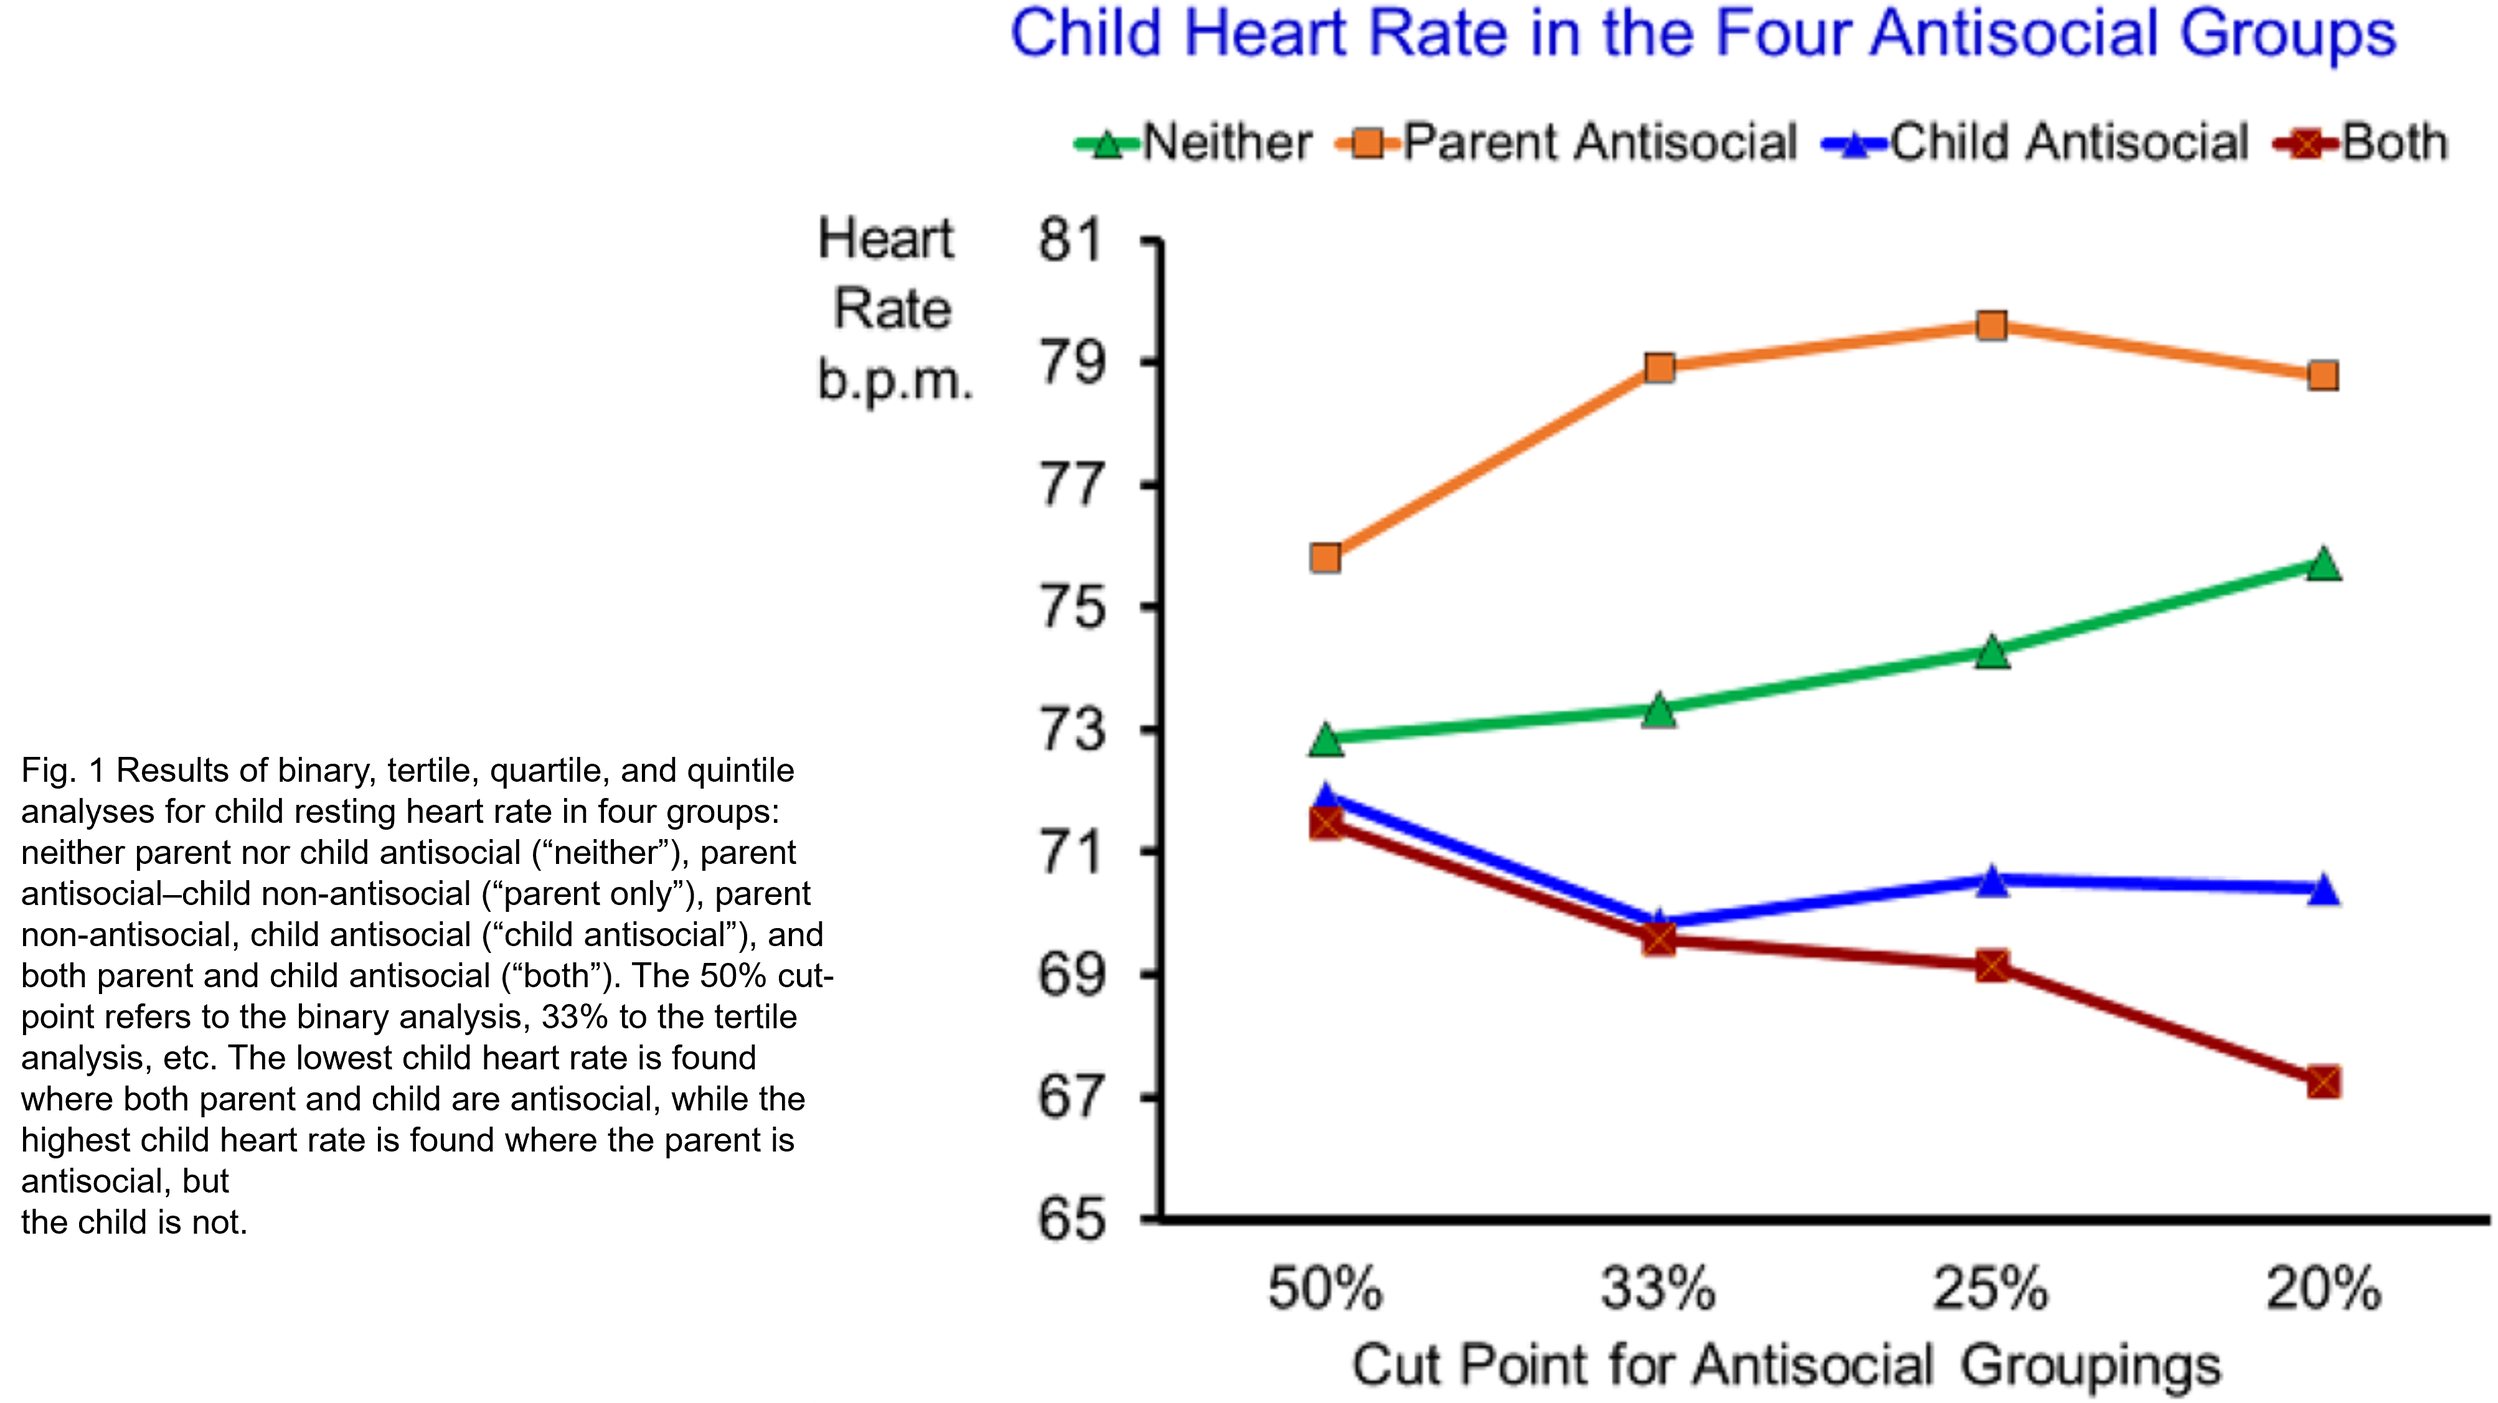
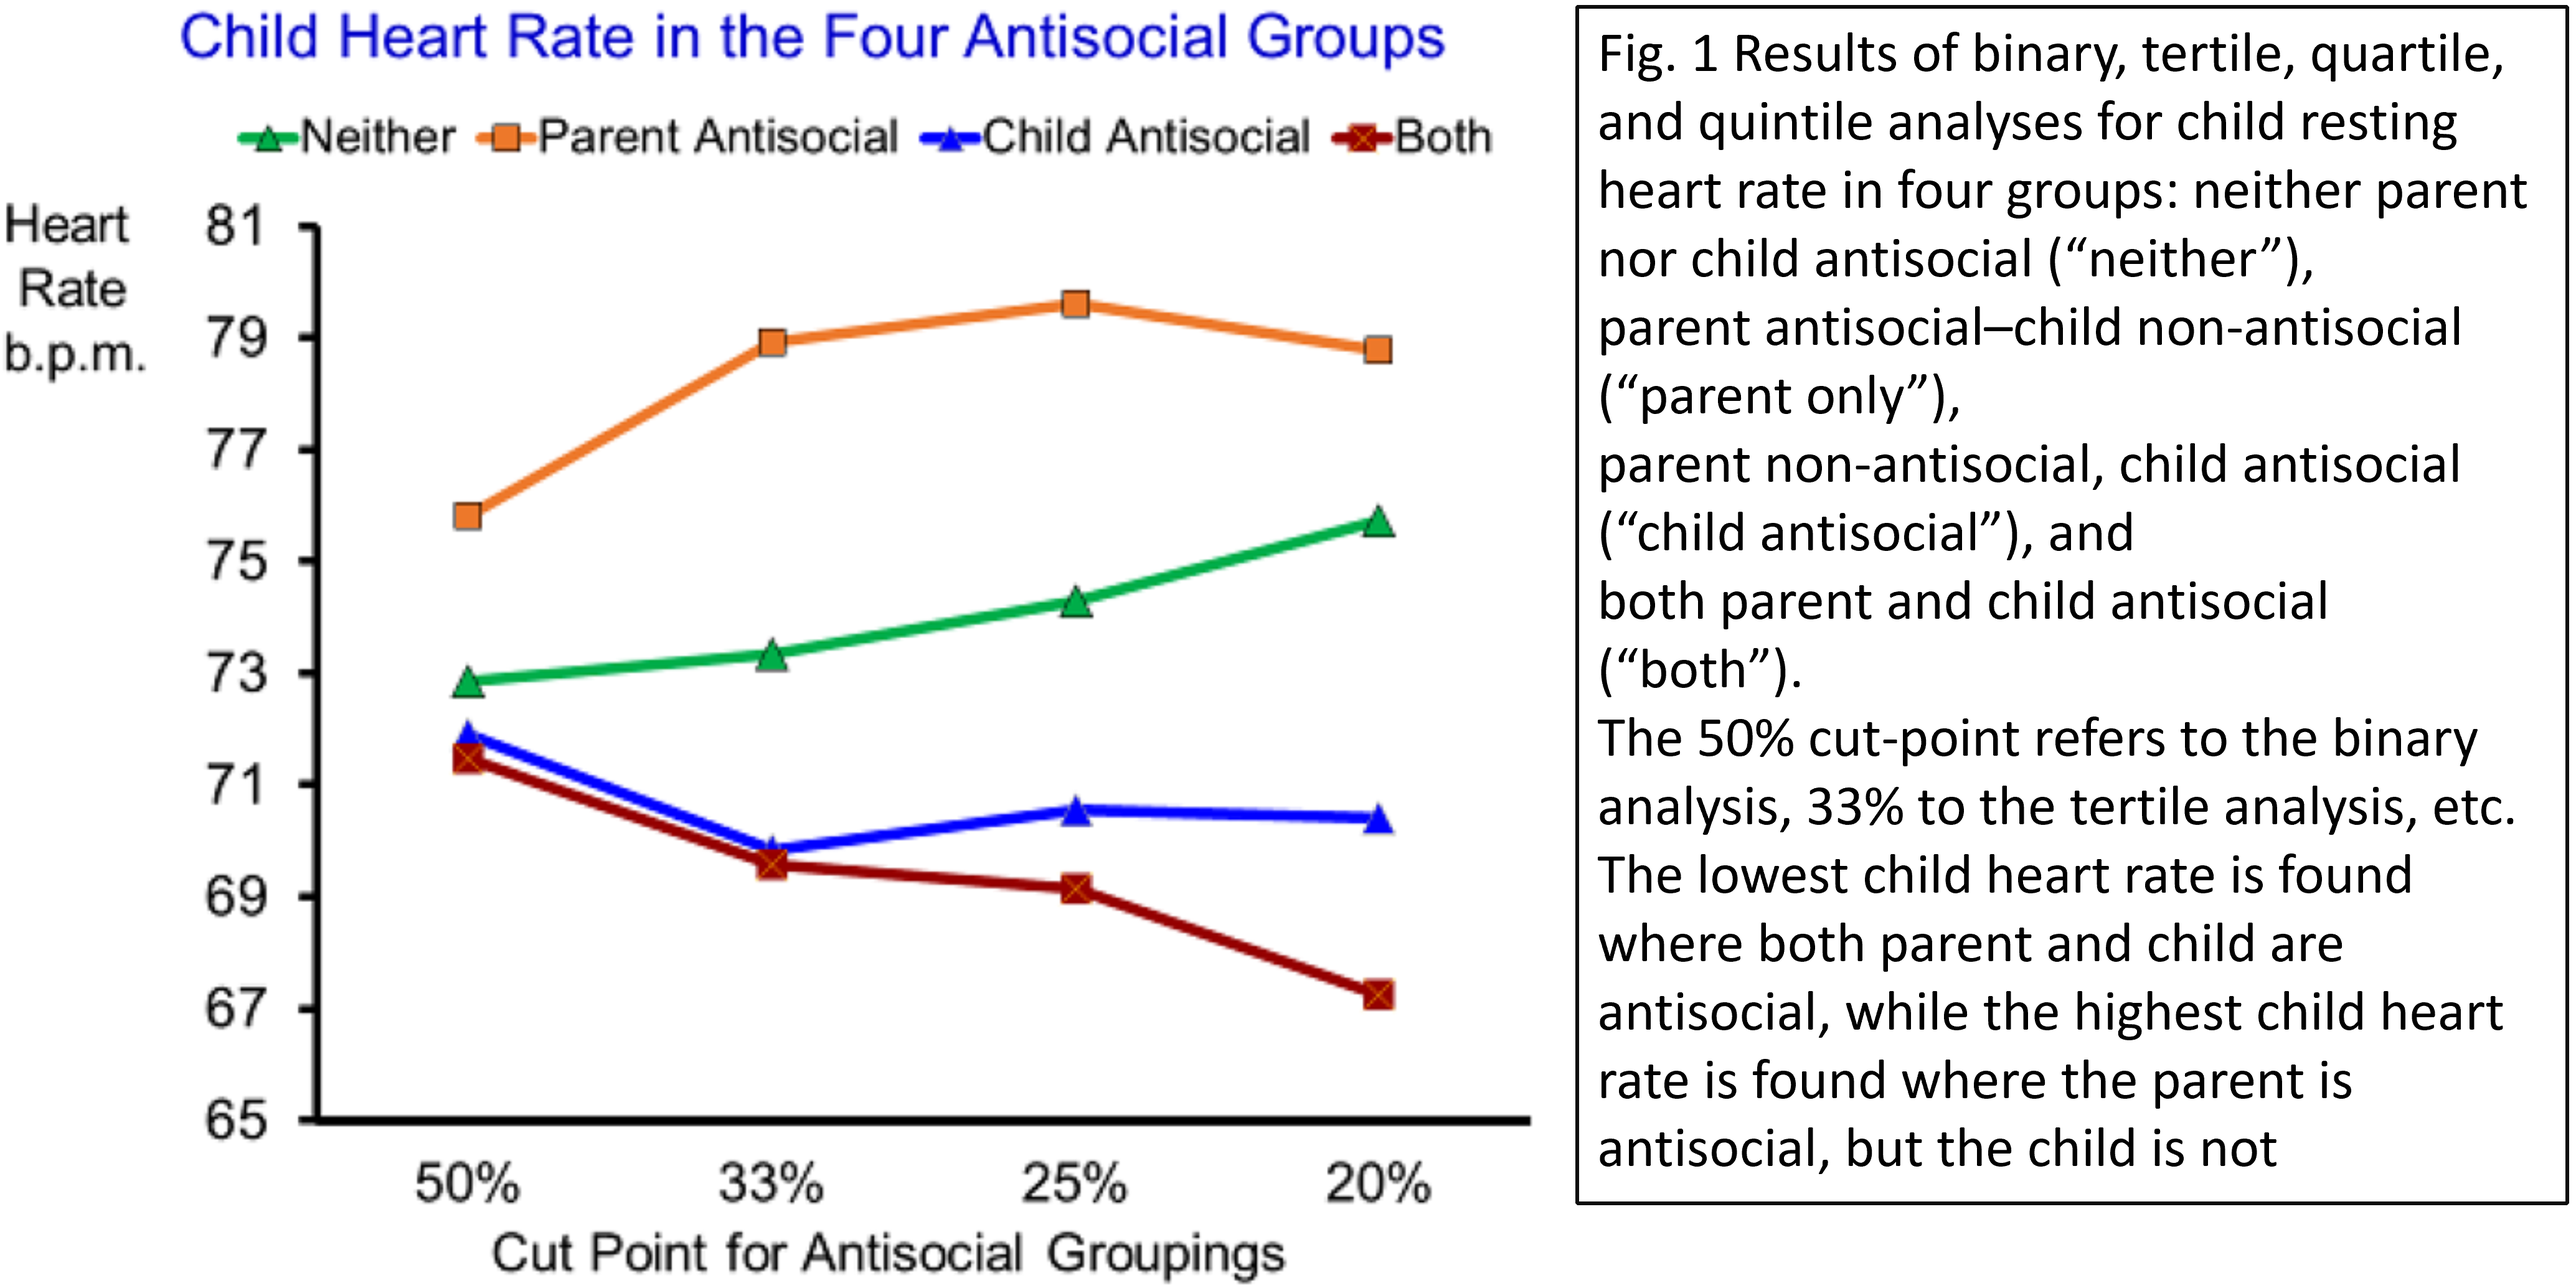
duscussion

diff --git a/docs/posts/psychophysreplicateRaine/index.html b/docs/posts/psychophysreplicateRaine/index.html
@@ -354,7 +354,7 @@
 </section>
 <section id="background" class="slide level2">
 <h2>Background</h2>
-<p>In this paper the authors utilize heart rate as a measure of physiological function as a possible moderator between behavior and intergenerational transmission of antisocial behavior. The following theoretical perspectives are listed to support their logic:</p>
+<p>In this paper the authors utilize heart rate as a measure of physiological function as a possible moderator between behavior and intergenerational transmission of antisocial behavior. The following theoretical perspectives were included to support their logic:</p>
 <ul>
 <li><p>Fearlessness Theory</p>
 <ul>
@@ -370,29 +370,56 @@
 </section>
 <section id="question" class="slide level2">
 <h2>Question</h2>
-<p>Broad Question</p>
-<p>Examining resting heart rate as a biological protective factor, and the level of influence of psychosocial factors on antisocial behavior.</p>
-<p>Specific Question</p>
-<p>Investigating biologcial correlates for intergenerational discontinuity of antisocial behavior</p>
-<p>Hypotheses:</p>
-<p>High heart rate may act as a protective factor in children. The high parent antisocial/low child antisocial group would have higher heart rates than the other three groups</p>
-</section>
-<section id="key-terms" class="slide level2">
-<h2>Key Terms</h2>
-<p>Emotional Regulation</p>
-<p>This refers to the process of monitoring, evaluating and modulating emotional reactions with the purpose of goal attainment For example upregulating excitement, or dampening frustration to facilitate positive interpersonal interactions</p>
-<p>RSA Withdrawal</p>
-<p>Also referred to as vagal withdrawal. Vagal/RSA withdrawal as opposed to vagal/RSA augmentation. During vagal withdrawal the vagus nerve withdraws its control over the heart resulting in increased PNS(RSA) reactivity Appropriate levels of vagal withdrawal are adaptive and necessary for effectively reacting to external threats.</p>
-<p>Vagus Augmentation</p>
-<p>During vagus augmentation the Vagus nerve increases its control over the heart resulting in decreased PNS(RSA) reactivity. Vagal augmentation may lead to increased control of emotionality that can attenuate painful experiences and insensitivity to socializing punishments (Zhang, W., Fagan, S. E., Gao, Y. 2017)</p>
+<ul>
+<li><p>Broad Question</p>
+<ul>
+<li>Examining resting heart rate as a biological protective factor, and the level of influence of psychosocial factors on antisocial behavior.</li>
+</ul></li>
+<li><p>Specific Question</p>
+<ul>
+<li><p>Investigating biologcial correlates for intergenerational discontinuity of antisocial behavior</p></li>
+<li><p>Hypotheses:</p></li>
+<li><p>High heart rate may act as a protective factor in children. The high parent antisocial/low child antisocial group would have higher heart rates than the other three groups</p></li>
+</ul></li>
+</ul>
 </section>
 <section id="logic" class="slide level2">
 <h2>Logic</h2>
 </section>
 <section id="methods" class="slide level2">
 <h2>Methods</h2>
+<ul>
+<li><p>The study location:</p></li>
+<li><p>Island Mauritius</p></li>
+</ul>
+<p><img data-src="mauri.jpg" class="absolute" style="left: 500px; bottom: 10px; width: 700px; height: 700px; "></p>
 </section>
-<section id="analysis" class="slide level2">
+<section id="participants-and-duration" class="slide level2">
+<h2>Participants and Duration</h2>
+<p>Participants were recruited from a database of a birth cohort study of child health and development The participants consisted of 405 parent-child dyads, N=810 Children born between 1969-1970 in two towns on the island were recruited. Children were recruited at 3 years of age from September 1972 to August 1973 The towns Vacoas and Quatre, Bornes were chosen to represent the ethnic distribution of the island</p>
+<p>The study took place from March 2018 to April 2019</p>
+</section>
+<section id="demographics" class="slide level2">
+<h2>Demographics</h2>
+<p>Children (55.3% female) had a mean age of 15.3 years (range 11.0–19.9 years, SD = 2.2), with 78.5% Indian and 21.5% Creole. Parents (75.8% female) had a mean age of 45.9 years (range 29.0–61.1 years, SD = 4.53), with 79.3% Indian and 20.7% Creole.</p>
+</section>
+<section id="inventories-utilized-to-assess-antisocial-behavior" class="slide level2">
+<h2>Inventories utilized to assess antisocial behavior</h2>
+<p>Child self-reported antisocial behavior was assessed using six scales. Aggressive behavior, rule-breaking behavior, and attention problems were assessed using the Youth Self- Report<br>
+The fourth scale was the 10-item version of the Inventory of Callous-Unemotional Traits ICU<br>
+The final two scales were the Reactive and Proactive Aggression scales of the Reactive and Proactive Aggression Questionnaire</p>
+</section>
+<section id="inventories-parents" class="slide level2">
+<h2>Inventories Parents</h2>
+<p>Parents provided self-reports of aggressive behavior, rulebreaking behavior, intrusive behavior, and attention problems on the Adult Self-Report (ASR)</p>
+<p>Parents also provided self-reports of reactive and proactive aggression on the RPQ</p>
+</section>
+<section id="social-adversity" class="slide level2 scrollable">
+<h2>Social Adversity</h2>
+<p>In a demographic interview with the parent, the following 16 indicators of social adversity were collected: parental teenage pregnancy (2.0%), single parent family (14.8%), four or more siblings (9.1%), father unemployed (3.2%), parent with physical or mental health problems (2.7%), parent smoked 5 or more cigarettes per day (17.3%), parent drinks more than 14 units of alcohol per week (5.2%), parent arrested (5.9%), living in government housing (2.0%), low parental education (19.5%), low occupation level (18.8%), low family income (24.7%), poor home living conditions (19.8%), problems with neighborhood crime (8.6%), problems with neighborhood conditions (19.0%), and child illness (3.0%).</p>
+<p>Variables were scored on the basis of being present (1) or absent (0), with scores summed to provide a total adversity score.</p>
+</section>
+<section id="analysis" class="slide level2 scrollable">
 <h2>Analysis</h2>
 <p><strong>Measure of intergenerational discontinuity</strong></p>
 <ul>
@@ -410,16 +437,42 @@
 </section>
 <section id="results" class="slide level2">
 <h2>Results</h2>
-<p><img data-src="four_antisocials.png" class="absolute" style="left: 200px; bottom: 10px; width: 4000px; height: 1000px; "></p>
 </section>
-<section id="inferences" class="slide level2">
-<h2>Inferences</h2>
+<section id="table-2-means-standard-deviations-and-group-differences" class="slide level2">
+<h2>Table 2 Means, Standard Deviations, and Group Differences</h2>
+<p><img data-src="table_2_means.png" class="absolute" style="bottom: 100px; right: 100px; width: 1000px; height: 400px; "></p>
+</section>
+<section id="the-four-antisocial-groups-hr" class="slide level2">
+<h2>The Four Antisocial Groups &amp; HR</h2>
+<p><img data-src="four_antisocials.png" class="absolute" style="bottom: 10px; right: 150px; width: 2000px; height: 600px; "></p>
+</section>
+<section id="resting-heart-rate-and-intergenerational-continuity" class="slide level2">
+<h2>Resting Heart Rate and Intergenerational Continuity</h2>
+<p>There was a significant positive correlation between the child’s resting heart rate and the intergenerational discontinuity score, r = 0.16, d = 0.32, p &lt; 0.001.</p>
+<p>For the initial median split analyses (50% cut-point), there was a significant effect of group on child resting heart rate, F(3,392) = 2.98, p = 0.031, partial eta2 = 0.022.</p>
+<p>The parent antisocial/child non-antisocial group had significantly higher resting heart rates than every other group, who did not differ significantly from one another</p>
+<p>There was a main effect of heart rate grouping on intergenerational discontinuity, F(2,393) = 5.03, p = 0.007, partial eta2 = 0.025.</p>
+</section>
+<section id="discussion" class="slide level2">
+<h2>Discussion</h2>
+<p>Three kinds of evidence that high resting heart rate may protect against the intergenerational transmission of antisocial behavior.</p>
+<p>First, heart rate was positively associated with an intergenerational discontinuity score, with high heart rate associated with low child antisocial scores despite high parental antisocial scores. Second, a group of children with low levels of antisocial behavior but whose parents were high in antisocial behavior had higher resting heart rates</p>
+<p>Second, a group of children with low levels of antisocial behavior but whose parents were high in antisocial behavior had higher resting heart rates than all three other groups of children.</p>
+<p>Third, a tertile split on resting heart rate indicated that high heart rate was a protective factor against the intergenerational transmission of antisocial behavior, rather than low heart rate representing a risk factor for intergenerational transmission.</p>
+<p>To our knowledge, these are the first findings to identify a biological variable as a protective factor against the intergenerational transmission of antisocial behavior in children.</p>
 </section>
 <section id="limitations" class="slide level2">
 <h2>Limitations</h2>
+<p>Generalizability of sample to larger population, due to location accessibility.</p>
+<p>Physiological measures differed in method of collection and location, as it did not take place in psychophysiology lab. Physical fitness, prior food intake, and medication use was not assessed.</p>
+</section>
+<section id="inferences" class="slide level2">
+<h2>Inferences</h2>
+<p>This study focused on heart rate as a possible biological protective factor. However investigation of associations of vagal tone with antisocial behavior measured as indices of Parasympathetic Nervous system have been conducted extensively. Studying physiological index of the PNS as a biological protective factor regarding transmission of antisocial behavior has yet to be studied, and would be a topic of future research.</p>
 </section>
 <section id="references" class="slide level2 scrollable">
 <h2>REFERENCES</h2>
+<p>GISGeography. (2017, November 29). Map of Africa. GIS Geography. https://gisgeography.com/africa-map/</p>
 <p>Morris, Laurel S., McCall, Jordan, G. , et. al.&nbsp;(2020). The Role of the Locus Coeruleus in the Generation of Pathological Anxiety. Brain and Neuroscience Advances 4 https://doi.org/10.1177/2398212820930321.</p>
 <p>Perry, K. J., Ostrov, J. M., et. al.&nbsp;(2023). The Role of Autonomic System Coordination in Relations Between Peer Factors and Aggressive Behavior in Early Childhood. Research on Child and Adolescent Psychopathology, 51(5), 693–708. https://doi.org/10.1007/s10802-022-01013-0</p>
 <p>Porges, S. W. (2006). The Polyvagal Perspecitve. Biological Psychology. doi:10.1016/j.biopsycho.2006.06.009</p>

diff --git a/docs/index.html b/docs/index.html
@@ -277,7 +277,7 @@ Link on the Web
 <a href="./posts/psychophysrefer/index.html"> </a>
 </div>
 </div>
-<div class="quarto-post image-right" data-index="4" data-listing-file-modified-sort="1710102151019" data-listing-reading-time-sort="4">
+<div class="quarto-post image-right" data-index="4" data-listing-file-modified-sort="1710185918485" data-listing-reading-time-sort="7">
 <div class="thumbnail">
 <p><a href="./posts/psychophysreplicateRaine/index.html"> <div class="listing-item-img-placeholder card-img-top" >&nbsp;</div> </a></p>
 </div>
